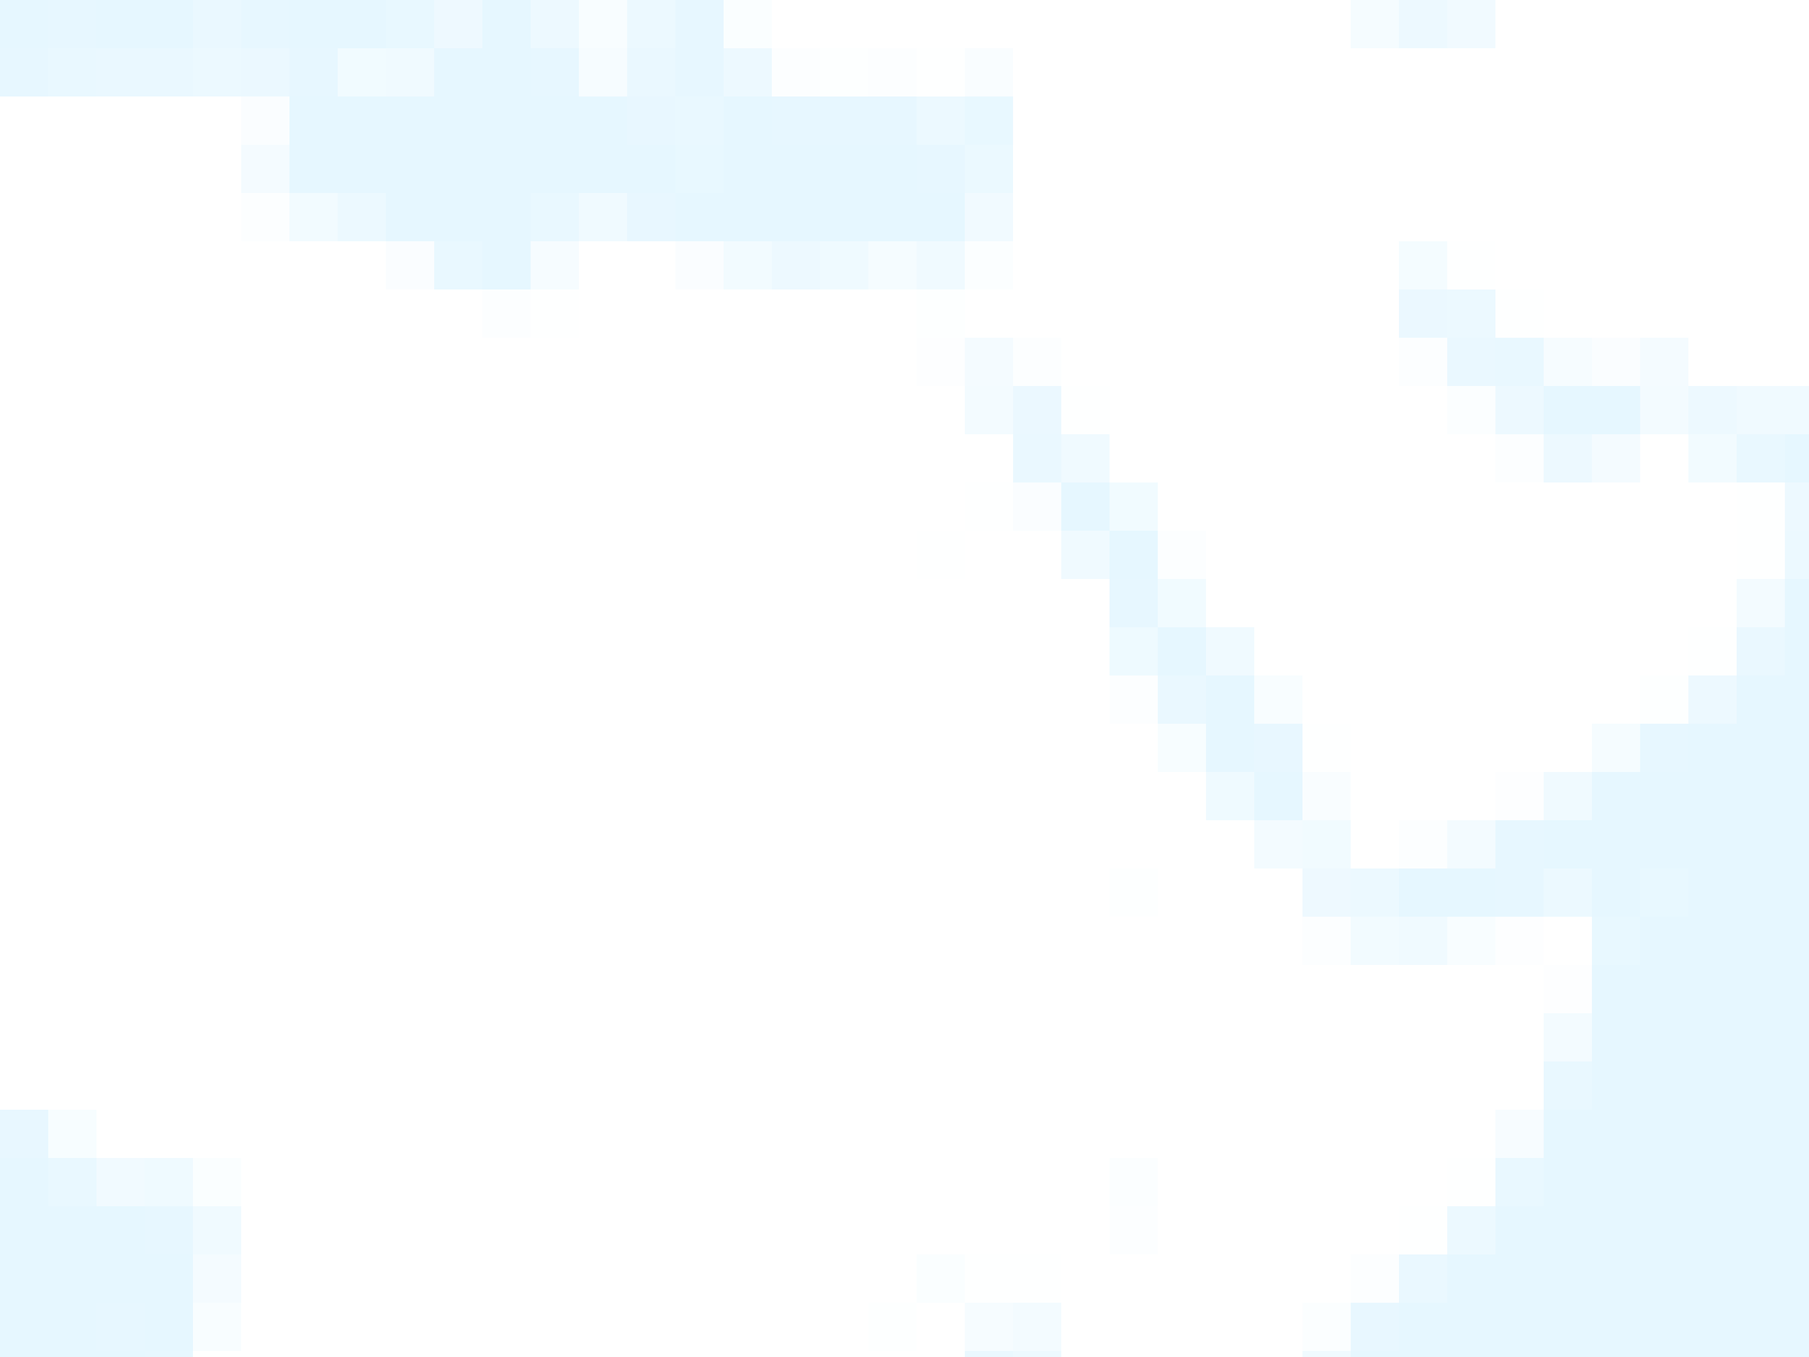
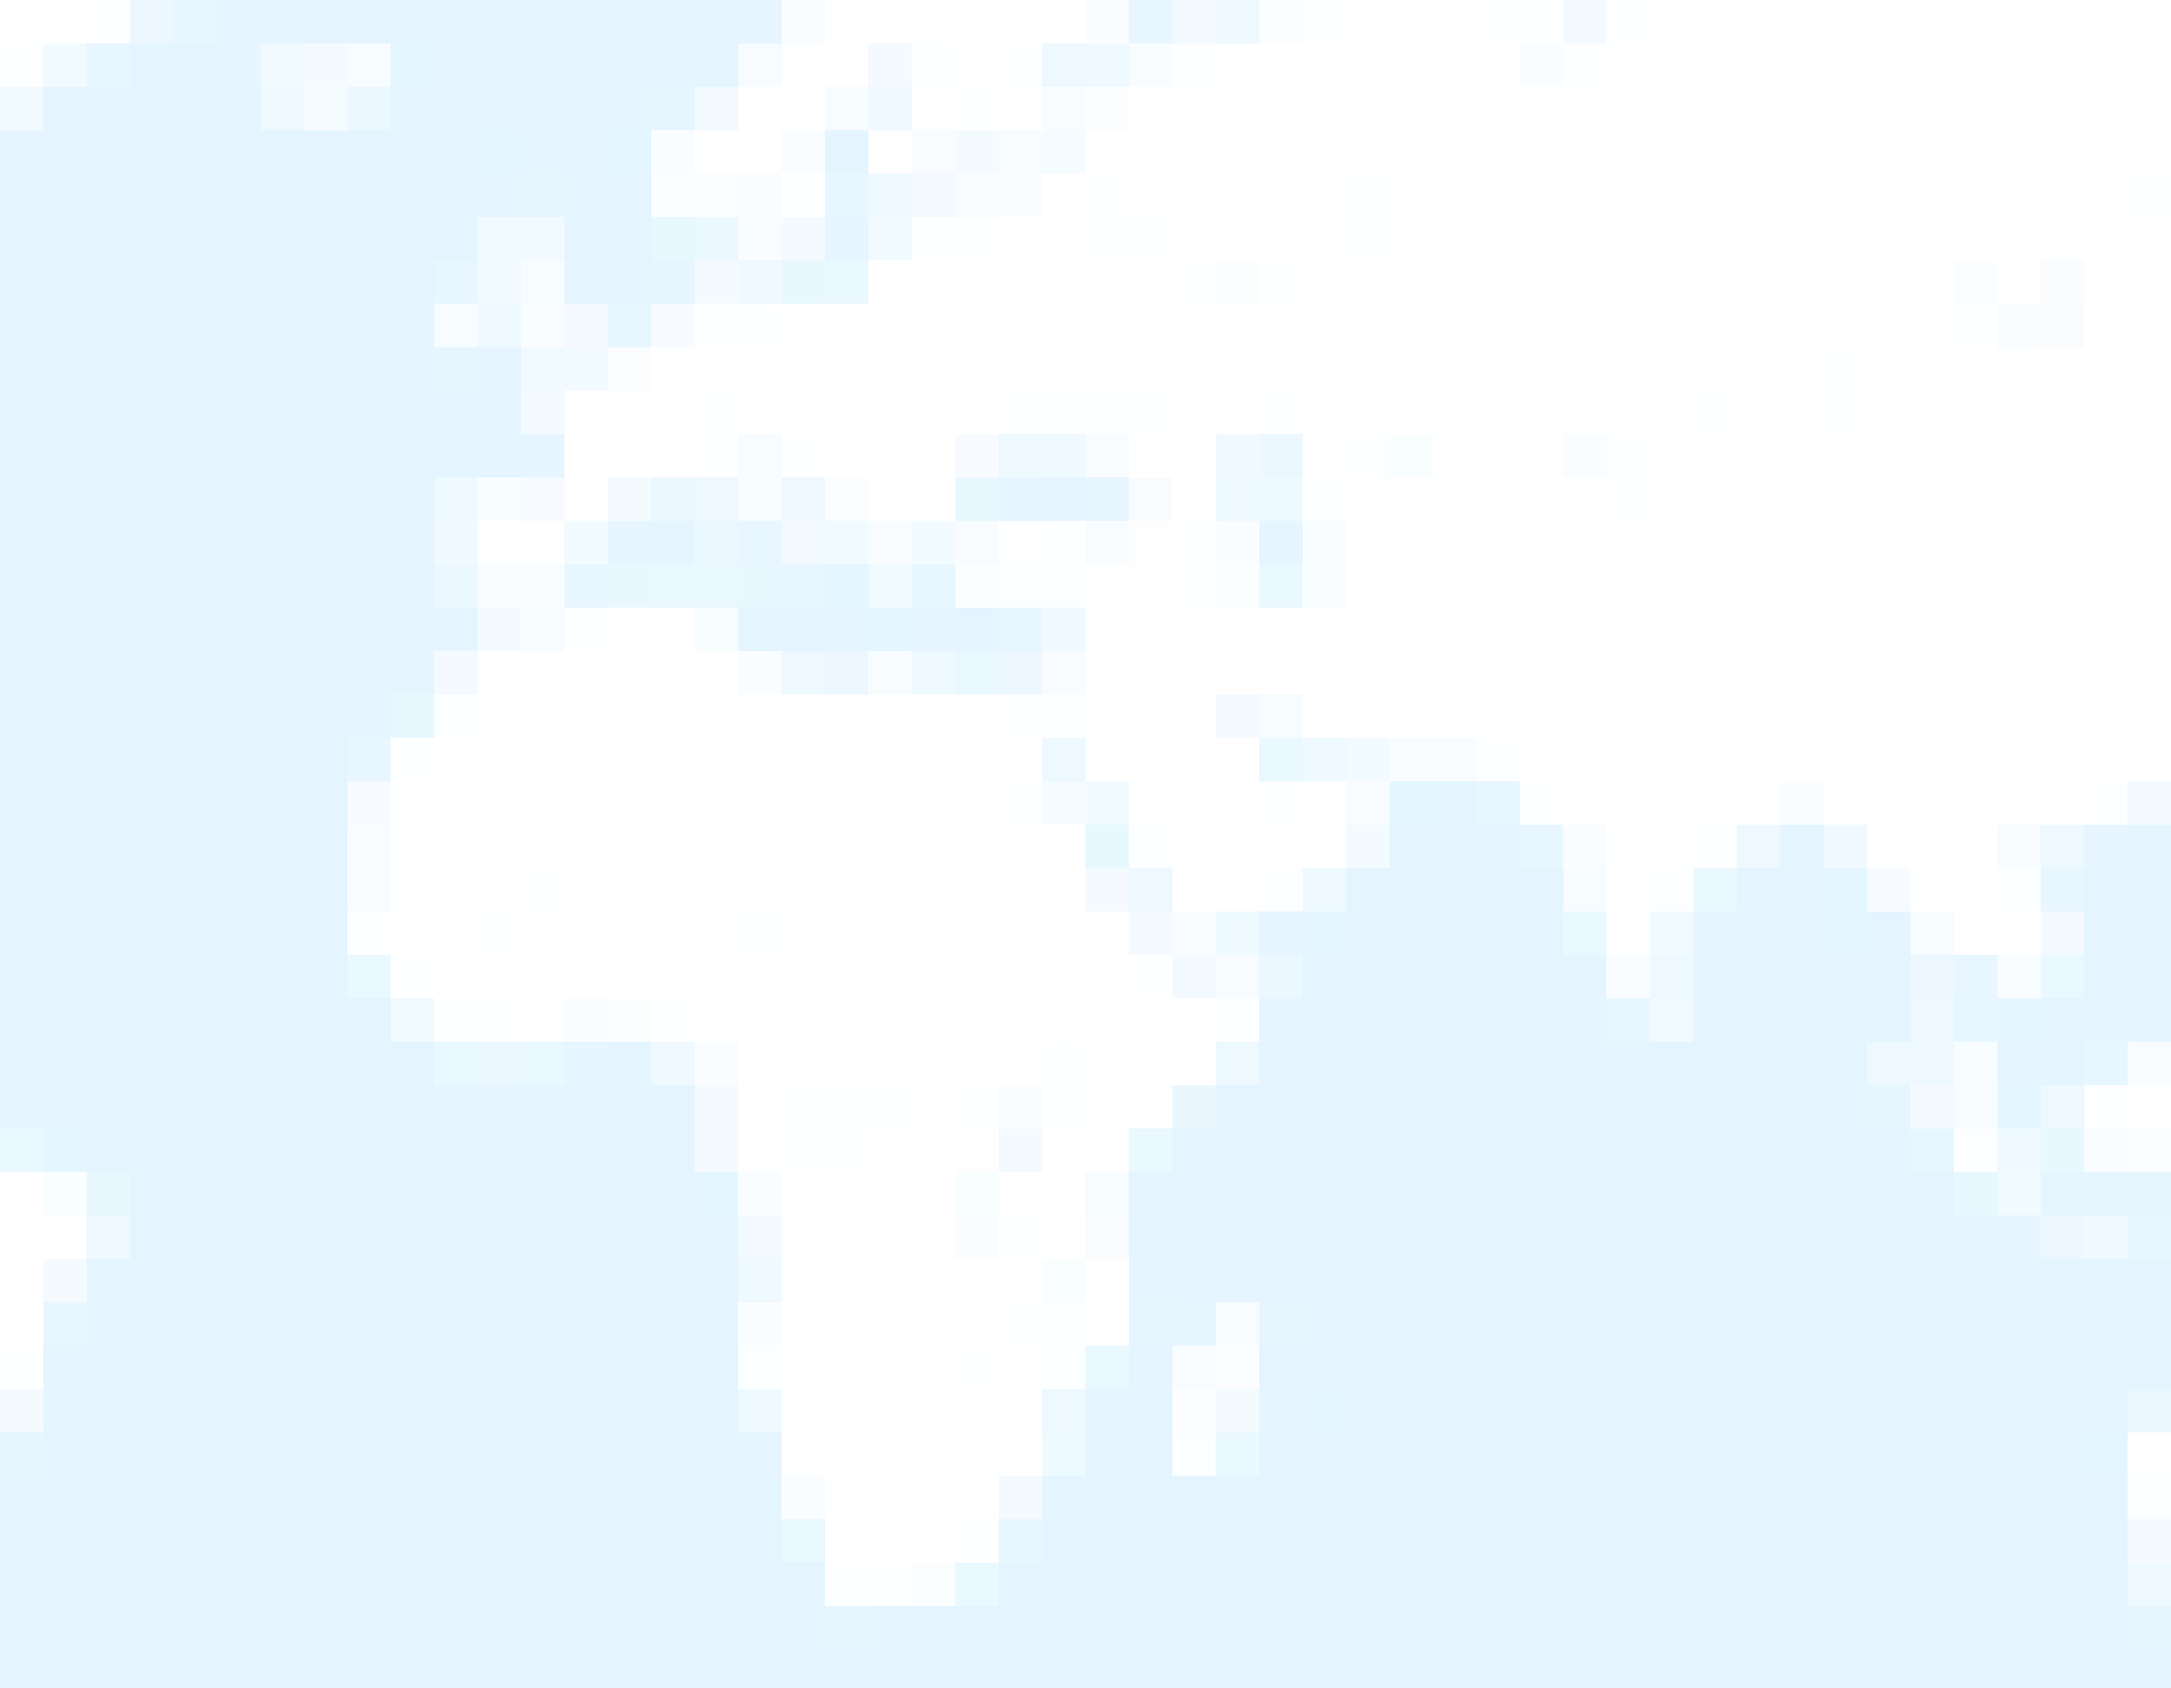
style changes, new bg

diff --git a/index.html b/index.html
@@ -8,20 +8,20 @@
     <!-- Schema.org markup for Google+ -->
     <meta itemprop="name" content="Gidole & Gidolinya Free Typefaces">
     <meta itemprop="description" content="Gidole and Gidolinya are open source modern and stylized typefaces made by Andreas Larsen. They are named after Gidole in Ethiopia.">
-    <meta itemprop="image" content="https://raw.githubusercontent.com/gidole/gidole.github.io/master/img/gidoletypefaces.png">
+    <meta itemprop="image" content="https://raw.githubusercontent.com/gidole/gidole.github.io/master/img/Gidole&Gidolinya.png">
 
     <!-- Twitter Card data -->  
     <meta name="twitter:card" content="summary_large_image">
     <meta name="twitter:creator" content="@andreaslarsendk">
     <meta name="twitter:title" content="Gidole & Gidolinya Free Typefaces">
     <meta name="twitter:description" content="Gidole and Gidolinya are open source modern and stylized typefaces made by Andreas Larsen. They are named after Gidole in Ethiopia.">
-    <meta name="twitter:image:src" content="https://raw.githubusercontent.com/gidole/gidole.github.io/master/img/gidoletypefaces.png">       
+    <meta name="twitter:image:src" content="https://raw.githubusercontent.com/gidole/gidole.github.io/master/img/Gidole&Gidolinya.png">       
 
     <!-- Open Graph data -->
     <meta property="og:title" content="Gidole & Gidolinya Free Typefaces" />
     <meta property="og:type" content="website" />
     <meta property="og:url" content="http://gidole.github.io" />
-    <meta property="og:image" content="https://raw.githubusercontent.com/gidole/gidole.github.io/master/img/gidoletypefaces.png" />
+    <meta property="og:image" content="https://raw.githubusercontent.com/gidole/gidole.github.io/master/img/Gidole&Gidolinya.png" />
     <meta property="og:description" content="Gidole and Gidolinya are open source modern and stylized typefaces made by Andreas Larsen. They are named after Gidole in Ethiopia." />
     <meta property="og:site_name" content="Gidole & Gidolinya Free Typefaces" />
   
@@ -90,9 +90,8 @@
       </div>        
     </nav>    
     <main class="wrapper">
-      <h2>Gidole &amp; Gidolinya</h2>
       <h3>Names</h3>
-      <p>I spent 4 childhood years in Gidole and therefore named these fonts after it. Gidole is a small beautiful rural town in Ethiopia overlooking the Great Rift Valley (<a target="_blank" href="https://www.google.com/maps/place/Gidole,+Etiopien/@9.0261392,40.0094517,6z/data=!4m2!3m1!1s0x17bad5f68ec42f83:0xacbf25dd0377cfb7">map</a>). Gidolinya is one of the many languages spoken in the region.
+      <p>I spent 4 childhood years in Gidole and therefore named these fonts after it. It's a small beautiful rural town up in the mountains in Ethiopia overlooking the Great Rift Valley (<a target="_blank" href="https://www.google.com/maps/place/Gidole,+Etiopien/@9.0261392,40.0094517,6z/data=!4m2!3m1!1s0x17bad5f68ec42f83:0xacbf25dd0377cfb7">map</a>). Gidolinya is the main local language spoken in the area.
       </p>
       <h3>Design</h3>
       <p contenteditable="false">The typefaces are inspired by <a href="http://en.wikipedia.org/wiki/DIN_1451">DIN #1451</a> with focus on simplicity, smoothness and legability.

diff --git a/styles.css b/styles.css
@@ -304,8 +304,8 @@ h2,h3 {
   color:hsl(200, 8%, 59%)
 }
 .social.fixed {
-  background-color: rgba(255,255,255,0.95);
-  border-bottom: 1px solid hsl(200, 11%, 70%);
+  background-color: #fff;
+  border-bottom: 1px solid #fff;
 }
 .social path {
   fill:hsl(200, 9%, 59%)
@@ -416,7 +416,7 @@ blockquote,ol,p,pre,table,ul {
   font-family:gidolinyaregular;
 }
 .dark .social.fixed {
-  background-color: hsla(200, 4%, 13%, 0.95);
+  background-color: #000;
   border-bottom: 1px solid black;
 }
 .dark,
@@ -425,7 +425,7 @@ blockquote,ol,p,pre,table,ul {
 .dark .screenshots .slick-next::before {
   color:hsl(200, 5%, 65%);
   fill:hsl(200, 5%, 65%);
-  background-color:hsl(200, 4%, 13%);
+  background-color:#000;
 }
 .dark a {
   color:hsl(200, 100%, 40%);
@@ -451,11 +451,11 @@ blockquote,ol,p,pre,table,ul {
 }
 
 .dark .jumbotron:before {
-  background-image:linear-gradient(to top,rgba(32,34,35,1) 0%,rgba(32,34,35,.95) 4%,rgba(32,34,35,.8) 8%,rgba(32,34,35,.5) 12%,rgba(32,34,35,.2) 16%,rgba(32,34,35,.05) 20%,rgba(32,34,35,0) 24%,rgba(32,34,35,0) 100%);
+  background-image:linear-gradient(to top,rgba(0,0,0,1) 0%,rgba(0,0,0,.95) 4%,rgba(0,0,0,.8) 8%,rgba(0,0,0,.5) 12%,rgba(0,0,0,.2) 16%,rgba(0,0,0,.05) 20%,rgba(0,0,0,0) 24%,rgba(0,0,0,0) 100%);
   
 }
 .dark .jumbotron {
-    background:url(img/bgdarken.png) center center/cover no-repeat;
+    background:url(img/bgdark.png) center center/cover no-repeat;
 }
 
 
